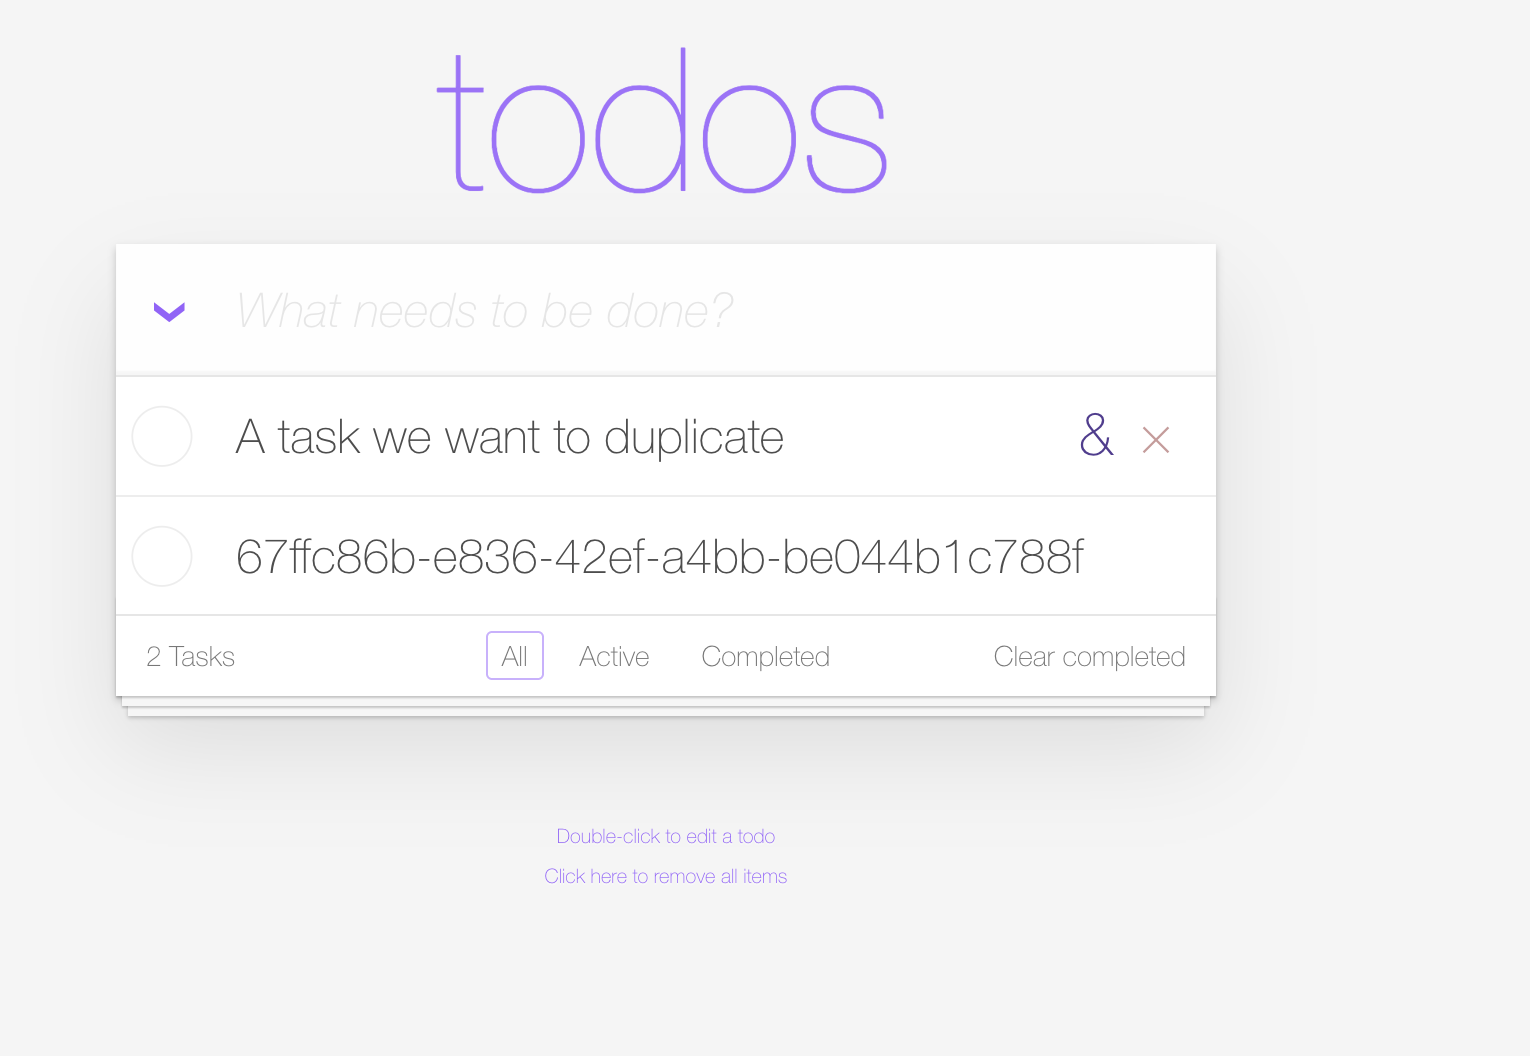
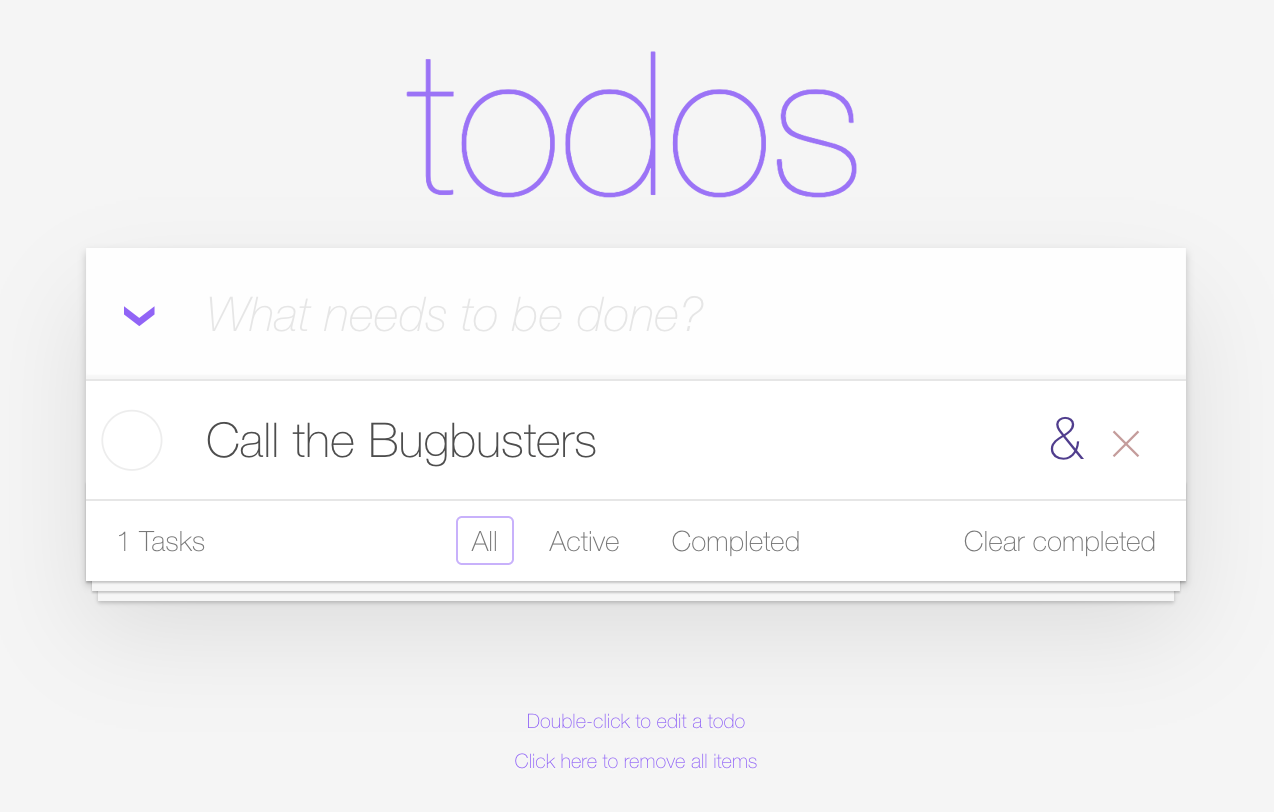
bugbusters

diff --git a/docs/3-bug-duplicate-task.md b/docs/3-bug-duplicate-task.md
@@ -7,10 +7,11 @@
 
 The TODO app has a duplicate function, let's give it a try.
 
-- Add a Task that we want to duplicate.
-- Hover over the added Task and on the right you'll notice a **&** symbol. This should duplicate the task.
-
+- Add a Task that we want to duplicate, we add **Call the Bugbusters**
 ![Duplicate](../img/todo_app_duplicate.png)
+
+- Hover over the added Task and on the right you'll notice a **&** symbol. This should duplicate the task.
+![Duplicate](../img/todo_app_duplicate2.png)
 
 What happened? 
 We notice a new task was created, but instead of a duplicate we see a weird string, looks like an ID. 
